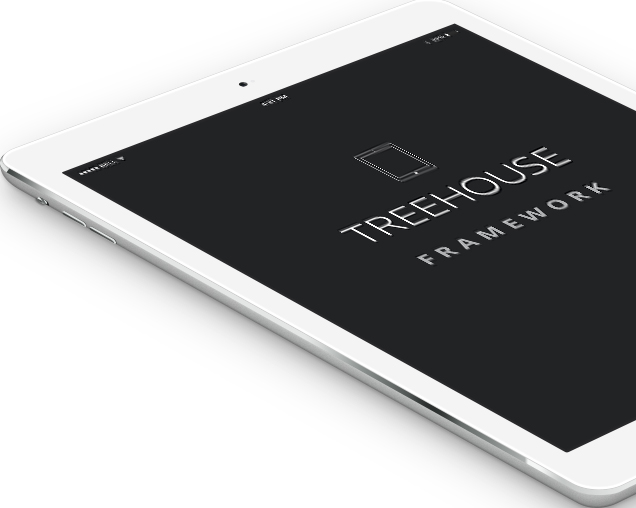
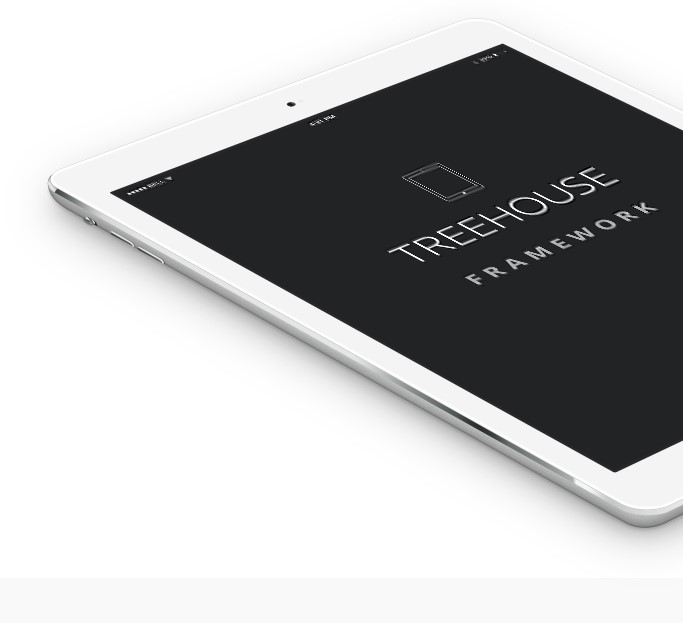
15.04

diff --git a/index.html b/index.html
@@ -77,7 +77,7 @@
         </div>
         <div class="heading marg">LATEST PROJECT</div>
         <div class="subhead marg-butt">Proin iaculis purus consequat sem cure.</div>
-        <div class="latest-project margin">
+        <div class="latest-project">
             <div class="lp-block">
                 <div class="head-block">DEVELOPING A FRAMEWORK</div>
                 <div class="text-block">
@@ -124,8 +124,67 @@
                 </div>
             </div>
             <div class="ipad">
-                <img src="img/ipad.jpg">
+                
             </div>
         </div>
+        <div class="sixth margin">
+            <div class="six-head">CULTURE & VALUES</div>
+            <div class="six-subhead">Proin iaculis purus consequat sem cure</div>
+            <div class="items">
+                <div class="item">
+                    <div class="circle2"><div class="fa fa-music fa-3x"></div></div>
+                    <div class="head-item">WORK-LIFE BALANCE</div>
+                    <div class="text-item">
+                        Proin iaculis purus consequat sem cure
+                        digni ssim. Donec porttitora entum suscipit
+                        aenean rhoncus posuere odio in tincidunt.
+                    </div>
+                </div>
+                <div class="item">
+                    <div class="circle2"><div class="fa fa-bar-chart fa-3x"></div></div>
+                    <div class="head-item">QUALITY OVER QUANTITY</div>
+                    <div class="text-item">
+                        Proin iaculis purus consequat sem cure
+                        digni ssim. Donec porttitora entum suscipit
+                        aenean rhoncus posuere odio in tincidunt.
+                    </div>
+                </div>
+                <div class="item">
+                    <div class="circle2"><div class="fa fa-star-o fa-3x"></div></div>
+                    <div class="head-item">DELIVER EXCELLENCE</div>
+                    <div class="text-item">
+                        Proin iaculis purus consequat sem cure
+                        digni ssim. Donec porttitora entum suscipit
+                        aenean rhoncus posuere odio in tincidunt.
+                    </div>
+                </div>
+            </div>
+        </div>
+         <div class="feedback">
+             <div class="six-head">OUR AWESOME CLIENTS</div>
+             <div class="six-subhead">
+                Proin iaculis purus consequat sem cure.
+             </div>
+             <div class="quotes">
+                 <div class="q1">
+                    <div class="circle3"></div>
+                    <div class="quote-block">
+                        <span class="quote">"Proin iaculis purus consequat sem cure
+                        digni ssim. Donec porttitora entum suscipit
+                        aenean rhoncus posuere odio in tincidunt."</span><br/>
+                        <span class="author">- Jamie Richardson, Founder of Cocoa Media</span>
+                    </div>
+                </div>
+                <div class="q2">
+                    <div class="quote-block">
+                    <span class="quote">"Proin iaculis purus consequat sem cure
+                        digni ssim. Donec porttitora entum suscipit
+                        aenean rhoncus posuere odio in tincidunt."</span><br/>
+                        <span class="author">- Kim Thompson Founder of Rainer</span>
+                    </div>
+                    <div class="circle3"></div>
+                </div>
+             </div>
+         </div>
     </body>
 </html>

diff --git a/main.css b/main.css
@@ -9,6 +9,7 @@
     --black: #222222;
     --just-relax-block: #e9e9e9;
     --quote: #f9f9f9;
+    --sixth-background: #f9f9f9;
 }
 *{
     box-sizing: border-box;
@@ -212,8 +213,18 @@ nav{
     height: 570px;
     display: grid;
     grid-template-columns: repeat(2, 1fr);
+    padding-left: 200px;
+    width: 100%;
+    justify-content: end;
 }
 .ipad{
+    background-image: url(img/ipad.jpg);
+    background-repeat: no-repeat;
+    background-size: cover;
+    display: flex;
+    justify-content: flex-end;
+    width: 100%;
+    height: 100%;
     
 }
 .lists:first-child{
@@ -257,4 +268,87 @@ nav{
     font-size: 16px;
     border-radius: 30px;
     cursor: pointer;
+}
+.sixth{
+    background-color: var(--sixth-background);
+    padding-top: 100px;
+    margin-bottom: 100px;
+}
+.six-head{
+    font-family: 'Montserrat', sans-serif;
+    font-weight: bolder;
+    font-size: 40px;
+    color: var(--black);
+    text-align: center;
+    margin-bottom: 20px;
+}
+.six-subhead{
+    font-family: 'RobotoSlab' serif;
+    font-size: 20px;
+    color: var(--gray);
+    text-align: center;
+    margin-bottom: 90px;
+}
+.items{
+    display: grid;
+    grid-template-columns: repeat(3, 1fr);
+    width: 90%;
+    margin: 0 auto;
+    padding-left: 16px;
+    padding-right: 16px;
+}
+.item{
+    text-align: center;
+}
+.circle2{
+    margin: 0 auto;
+    width: 90px;
+    height: 90px;
+    border: 3px solid var(--gray);
+    border-radius: 100%;
+    text-align: center;
+    line-height: 110px;
+    color: var(--gray);
+    margin-bottom: 25px;
+}
+.head-item{
+    font-family: 'Montserrat', sans-serif;
+    font-weight: bolder;
+    font-size: 18px;
+    color: var(--black);
+    margin-bottom: 20px;
+}
+.text-item{
+    font-family: 'RobotoSlab', serif;
+    font-size: 14px;
+    color: var(--gray);
+    width: 80%;
+    margin: 0 auto;
+    margin-bottom: 100px;
+}
+.quotes{
+    width: 80%;
+    margin: 0 auto;
+}
+.circle3{
+    width: 220px;
+    height: 220px;
+    border-radius: 100%;
+    background-color: var(--sixth-background);
+}
+.q1{
+    display: grid;
+    grid-template-columns: 1fr 2fr;
+    margin-left: 0;
+}
+.q2{
+    display: grid;
+    grid-template-columns: 2fr 1fr;
+    grid-column-gap: 45px;
+}
+.quote-block{
+    height: 170px;
+    padding: 40px;
+    text-align: center;
+    background-color: var(--sixth-background);
 }
